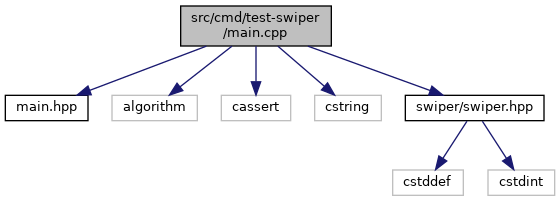
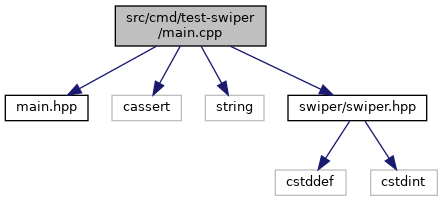
Travis build: 217
Commit: cd658acfaa56c833224737e329e0bb2799b4f644

diff --git a/main_8cpp.html b/main_8cpp.html
@@ -72,23 +72,21 @@ $(function() {
 </div><!--header-->
 <div class="contents">
 <div class="textblock"><code>#include &quot;<a class="el" href="main_8hpp_source.html">main.hpp</a>&quot;</code><br />
-<code>#include &lt;algorithm&gt;</code><br />
 <code>#include &lt;cassert&gt;</code><br />
-<code>#include &lt;cstring&gt;</code><br />
+<code>#include &lt;string&gt;</code><br />
 <code>#include &quot;<a class="el" href="swiper_8hpp_source.html">swiper/swiper.hpp</a>&quot;</code><br />
 </div><div class="textblock"><div class="dynheader">
 Include dependency graph for main.cpp:</div>
 <div class="dyncontent">
 <div class="center"><img src="main_8cpp__incl.png" border="0" usemap="#src_2cmd_2test-swiper_2main_8cpp" alt=""/></div>
 <map name="src_2cmd_2test-swiper_2main_8cpp" id="src_2cmd_2test-swiper_2main_8cpp">
-<area shape="rect" title=" " alt="" coords="181,5,331,47"/>
+<area shape="rect" title=" " alt="" coords="115,5,266,47"/>
 <area shape="rect" href="main_8hpp.html" title=" " alt="" coords="5,95,88,121"/>
-<area shape="rect" title=" " alt="" coords="112,95,197,121"/>
-<area shape="rect" title=" " alt="" coords="221,95,291,121"/>
-<area shape="rect" title=" " alt="" coords="315,95,381,121"/>
-<area shape="rect" href="swiper_8hpp.html" title=" " alt="" coords="405,95,544,121"/>
-<area shape="rect" title=" " alt="" coords="393,169,463,196"/>
-<area shape="rect" title=" " alt="" coords="488,169,555,196"/>
+<area shape="rect" title=" " alt="" coords="112,95,181,121"/>
+<area shape="rect" title=" " alt="" coords="205,95,264,121"/>
+<area shape="rect" href="swiper_8hpp.html" title=" " alt="" coords="288,95,427,121"/>
+<area shape="rect" title=" " alt="" coords="275,169,346,196"/>
+<area shape="rect" title=" " alt="" coords="371,169,437,196"/>
 </map>
 </div>
 </div><table class="memberdecls">
@@ -115,7 +113,7 @@ Functions</h2></td></tr>
 </div><div class="memdoc">
 
 <p>main is the entrypoint. </p>
-<dl class="section copyright"><dt>Copyright</dt><dd>2021 YelloSoft Usage: test-swiper</dd></dl>
+<p>Usage: test-swiper</p>
 <dl class="section return"><dt>Returns</dt><dd>CLI exit code </dd></dl>
 
 </div>

diff --git a/README.md b/README.md
@@ -1,1 +1,1 @@
-Thu 22 Apr 2021 12:43:55 AM UTC
+Thu 22 Apr 2021 12:59:17 AM UTC
